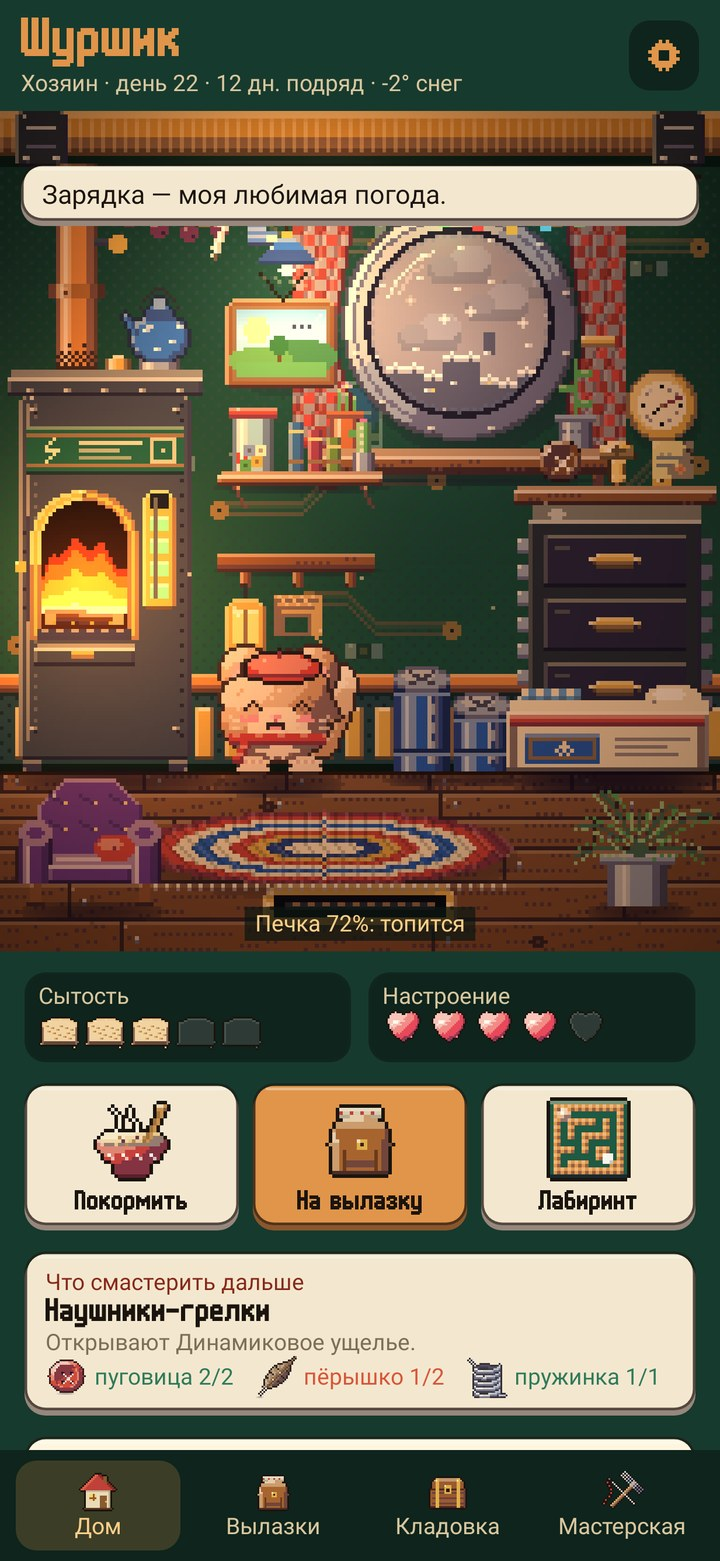
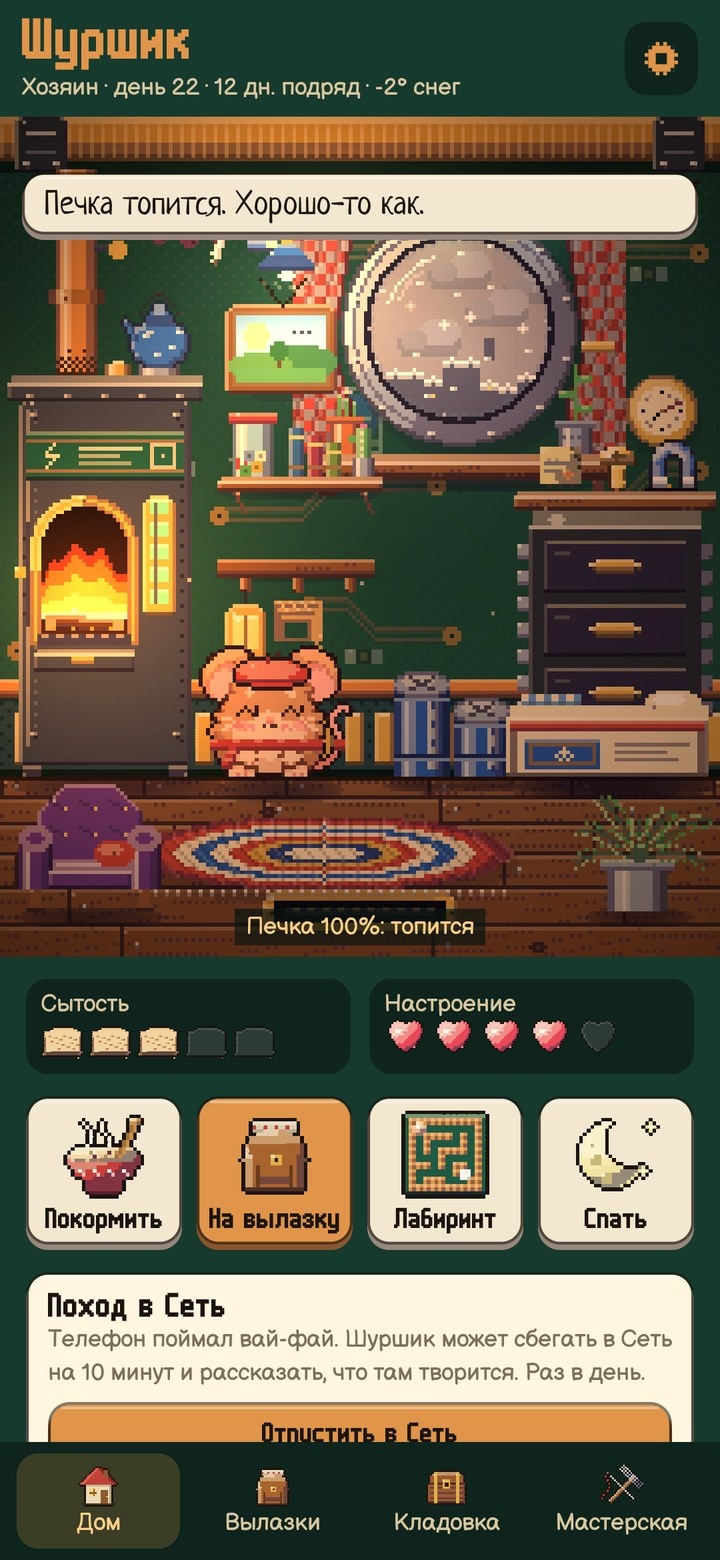
Screenshots with the new pets
tools/capture.sh takes them on a phone in English and Russian; -Pevening shows the nook at bedtime.

diff --git a/app/src/main/java/app/rustle/MainActivity.kt b/app/src/main/java/app/rustle/MainActivity.kt
@@ -17,6 +17,15 @@ import androidx.compose.foundation.isSystemInDarkTheme
 import androidx.compose.runtime.LaunchedEffect
 
 class MainActivity : AppCompatActivity() {
+    // Screenshots show the app alone, without the phone's bars.
+    override fun onWindowFocusChanged(hasFocus: Boolean) {
+        super.onWindowFocusChanged(hasFocus)
+        if (BuildConfig.SHOTS && hasFocus) androidx.core.view.WindowCompat.getInsetsController(window, window.decorView).run {
+            systemBarsBehavior = androidx.core.view.WindowInsetsControllerCompat.BEHAVIOR_SHOW_TRANSIENT_BARS_BY_SWIPE
+            hide(androidx.core.view.WindowInsetsCompat.Type.systemBars())
+        }
+    }
+
     override fun onCreate(savedInstanceState: Bundle?) {
         super.onCreate(savedInstanceState)
         if (BuildConfig.SHOTS) Art.still = true
@@ -26,7 +35,7 @@ class MainActivity : AppCompatActivity() {
             val s: State? by container.store.state.collectAsStateWithLifecycle(initialValue = null)
             val seeding by container.seeding.collectAsStateWithLifecycle()
             val system = isSystemInDarkTheme()
-            val dark = when (s?.theme) { "dark" -> true; "light" -> false; else -> system }
+            val dark = if (BuildConfig.SHOTS) true else when (s?.theme) { "dark" -> true; "light" -> false; else -> system }
             C.pal = Hue.of(s?.hue ?: "GREEN").palette(dark)
             // Light backgrounds want dark status bar icons, and the other way round.
             LaunchedEffect(dark) {

diff --git a/app/src/main/java/app/rustle/ui/Home.kt b/app/src/main/java/app/rustle/ui/Home.kt
@@ -44,7 +44,7 @@ class Home(val s: State, val now: Long, val ru: Boolean) {
      * sun really is there, so dusk in the window comes with the real sunset.
      */
     val hour: Float = run {
-        if (app.rustle.BuildConfig.SHOTS) return@run 19.2f
+        if (app.rustle.BuildConfig.SHOTS) return@run if (app.rustle.BuildConfig.EVENING) 21.5f else 19.2f
         val clock = Instant.ofEpochMilli(now).atZone(ZoneId.systemDefault()).let { it.hour + it.minute / 60f }
         if (!placed_) return@run clock
         val alt = app.rustle.domain.Sky.sunAlt(now, s.lat, s.lon)
@@ -64,8 +64,9 @@ class Home(val s: State, val now: Long, val ru: Boolean) {
         p.low -> Pose.COLD
         p.hot -> Pose.HOT
         full < 20 -> Pose.HUNGRY
-        p.dark -> Pose.DARK
-        p.sunny -> Pose.SUN
+        // Screenshots don't follow the light on the desk.
+        p.dark && !app.rustle.BuildConfig.SHOTS -> Pose.DARK
+        p.sunny && !app.rustle.BuildConfig.SHOTS -> Pose.SUN
         p.charging -> Pose.WARM
         else -> Pose.IDLE
     }

diff --git a/app/src/main/java/app/rustle/ui/home/HomeScreen.kt b/app/src/main/java/app/rustle/ui/home/HomeScreen.kt
@@ -127,7 +127,7 @@ fun HomeScreen(h: Home, phone: Phone, nav: Nav) {
                 }
                 h.surfing != null -> NetAway(h, h.surfing)
                 away == null -> {
-                    val bed = Nights.bedtime(h.now)
+                    val bed = Nights.bedtime(h.now) || app.rustle.BuildConfig.EVENING
                     Row(horizontalArrangement = Arrangement.spacedBy(8.dp)) {
                         Tile(Icons.bowl, stringResource(R.string.h_feed), Modifier.weight(1f)) { nav.go(Overlay.Feed) }
                         Tile(Icons.pack, stringResource(R.string.h_send), Modifier.weight(1f), C.copper) { nav.tab(Tab.TRIPS) }

diff --git a/app/src/main/java/app/rustle/RustleApp.kt b/app/src/main/java/app/rustle/RustleApp.kt
@@ -380,4 +380,5 @@ class RustleApp : Application() {
 
 val Context.container: AppContainer get() = (applicationContext as RustleApp).container
 
-val Context.ru: Boolean get() = resources.configuration.locales[0].language == "ru"
+// A screenshot build started in a language (`-Plang`) keeps to it whatever the phone speaks.
+val Context.ru: Boolean get() = if (BuildConfig.LANG.isNotEmpty()) BuildConfig.LANG == "ru" else resources.configuration.locales[0].language == "ru"
